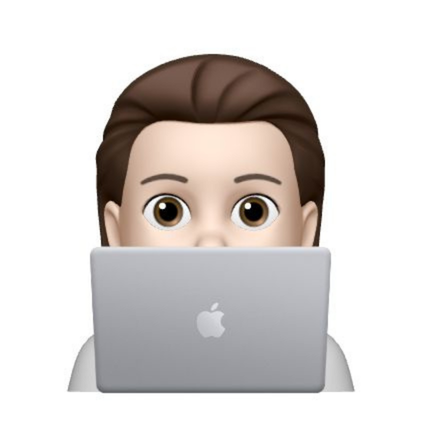
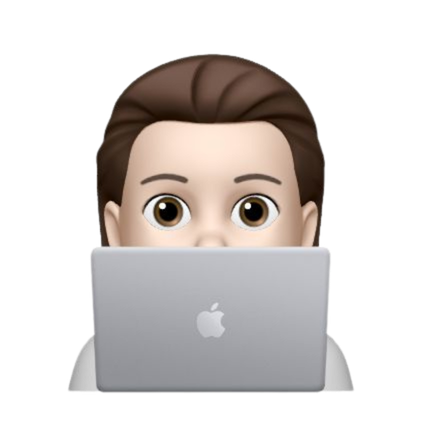
feat: refine project picker controls

diff --git a/src/components/projects/project-picker.module.css b/src/components/projects/project-picker.module.css
@@ -1,2 +1,2 @@
-.page { --canvas: #f7f7f6; --ink: #0a1b33; --muted: #60708a; --rule: #dfe3e8; --accent: #98b7ff; --focus: #0a1b33; min-height: 100vh; overflow: hidden; background: var(--canvas); color: var(--ink); font-family: Inter, Arial, sans-serif; }.topbar { display: flex; align-items: center; justify-content: space-between; width: min(1320px, calc(100% - 64px)); margin: 0 auto; padding: 30px 0; border-bottom: 1px solid var(--rule); }.brand { color: var(--ink); font-family: Outfit, Inter, sans-serif; font-size: 23px; font-weight: 500; letter-spacing: -.045em; text-decoration: none; }.topbar > span, .eyebrow { color: var(--muted); font-size: 10px; font-weight: 700; letter-spacing: .13em; }.content { display: grid; grid-template-columns: minmax(0, .74fr) minmax(420px, 1.26fr); grid-template-rows: 1fr auto; width: min(1320px, calc(100% - 64px)); min-height: calc(100vh - 85px); margin: 0 auto; }.copy { display: flex; flex-direction: column; justify-content: center; padding: 60px 20px 100px 0; }.copy h1 { margin: 19px 0 0; font-family: Outfit, Inter, sans-serif; font-size: clamp(52px, 5.9vw, 84px); font-weight: 500; letter-spacing: -.07em; line-height: .92; }.copy > p { max-width: 390px; margin: 28px 0 0; color: #43536c; font-size: 15px; line-height: 1.75; }.folderInput { position: absolute; width: 1px; height: 1px; overflow: hidden; clip: rect(0 0 0 0); }.actions { display: flex; align-items: center; flex-wrap: wrap; gap: 10px; margin-top: 25px; }.addProject { display: inline-flex; width: fit-content; }.selectProject { display: inline-flex; align-items: center; gap: 8px; min-height: 50px; border: 1px solid var(--ink); border-radius: 999px; background: var(--ink); color: #fff; cursor: pointer; font: 700 13px Inter, Arial, sans-serif; padding: 12px 17px; transition: transform .18s ease, background .18s ease; }.selectProject span { font-size: 17px; line-height: 1; }.selectProject:hover:not(:disabled) { background: #19345e; transform: translateY(-2px); }.selectProject:disabled { cursor: not-allowed; opacity: .45; }.orbit { display: flex; align-items: center; justify-content: center; min-width: 0; }.orbit :global(.dark) { color-scheme: light; }.footer { grid-column: 1 / -1; display: flex; align-items: center; justify-content: space-between; gap: 24px; padding: 19px 0 27px; border-top: 1px solid var(--rule); color: var(--muted); font-size: 12px; }.footer strong { color: var(--ink); }.footer p { max-width: 400px; margin: 0; text-align: right; line-height: 1.5; }.statusDot { display: inline-block; width: 7px; height: 7px; margin-right: 7px; border-radius: 50%; background: #4e8a63; } .brand:focus-visible,.addProject:focus-visible,.selectProject:focus-visible { outline: 3px solid var(--focus); outline-offset: 5px; }
-@media (max-width: 780px) { .page { overflow-y: auto; }.topbar, .content { width: min(100% - 36px, 560px); }.topbar { padding: 21px 0; }.topbar > span { display: none; }.content { display: block; min-height: 0; }.copy { padding: 58px 0 4px; }.copy h1 { font-size: clamp(48px, 13vw, 67px); }.copy > p:last-child { margin-top: 22px; }.orbit { min-height: 420px; }.footer { display: block; padding: 18px 0 28px; }.footer p { margin-top: 11px; text-align: left; } }
+.page { --canvas: #f7f7f6; --ink: #0a1b33; --muted: #60708a; --rule: #dfe3e8; --accent: #98b7ff; --focus: #0a1b33; min-height: 100vh; overflow: hidden; background: var(--canvas); color: var(--ink); font-family: Inter, Arial, sans-serif; }.topbar { display: flex; align-items: center; justify-content: space-between; width: min(1320px, calc(100% - 64px)); margin: 0 auto; padding: 30px 0; border-bottom: 1px solid var(--rule); }.brand { color: var(--ink); font-family: Outfit, Inter, sans-serif; font-size: 23px; font-weight: 500; letter-spacing: -.045em; text-decoration: none; }.topbar > span, .eyebrow { color: var(--muted); font-size: 10px; font-weight: 700; letter-spacing: .13em; }.content { display: grid; grid-template-columns: minmax(0, .9fr) minmax(0, 1.1fr); width: min(1320px, calc(100% - 64px)); min-height: calc(100vh - 85px); margin: 0 auto; }.copy { display: flex; flex-direction: column; justify-content: center; padding: 60px 20px 100px 0; }.copy h1 { margin: 19px 0 0; font-family: Outfit, Inter, sans-serif; font-size: clamp(52px, 5.3vw, 72px); font-weight: 500; letter-spacing: -.07em; line-height: .92; white-space: nowrap; }.copy > p { max-width: 390px; margin: 28px 0 0; color: #43536c; font-size: 15px; line-height: 1.75; }.folderInput { position: absolute; width: 1px; height: 1px; overflow: hidden; clip: rect(0 0 0 0); }.actions { display: flex; align-items: center; flex-wrap: wrap; gap: 10px; margin-top: 25px; }.addProject { display: inline-flex; width: fit-content; }.selectProject { display: inline-flex; align-items: center; gap: 8px; min-height: 50px; border: 1px solid var(--ink); border-radius: 999px; background: var(--ink); color: #fff; cursor: pointer; font: 700 13px Inter, Arial, sans-serif; padding: 12px 17px; transition: transform .18s ease, background .18s ease; }.selectProject span { font-size: 17px; line-height: 1; }.selectProject:hover:not(:disabled) { background: #19345e; transform: translateY(-2px); }.selectProject:disabled { cursor: not-allowed; opacity: .45; }.orbit { display: flex; align-items: center; justify-content: center; min-width: 0; }.orbit :global(.dark) { color-scheme: light; }.screenReaderNotice { height: 1px; margin: -1px; overflow: hidden; position: absolute; width: 1px; clip: rect(0 0 0 0); white-space: nowrap; } .brand:focus-visible,.addProject:focus-visible,.selectProject:focus-visible { outline: 3px solid var(--focus); outline-offset: 5px; }
+@media (max-width: 780px) { .page { overflow-y: auto; }.topbar, .content { width: min(100% - 36px, 560px); }.topbar { padding: 21px 0; }.topbar > span { display: none; }.content { display: block; min-height: 0; }.copy { padding: 58px 0 4px; }.copy h1 { font-size: clamp(48px, 13vw, 67px); }.copy > p:last-child { margin-top: 22px; }.orbit { min-height: 420px; } }

diff --git a/src/components/projects/project-picker.tsx b/src/components/projects/project-picker.tsx
@@ -3,8 +3,10 @@
 import Link from 'next/link'
 import { useRouter } from 'next/navigation'
 import { useEffect, useRef, useState, type ChangeEvent } from 'react'
+import { FiFolder, FiGithub, FiLink } from 'react-icons/fi'
 
 import { RadialCarousel, type GalleryItem } from '@/components/ui/radial-carousel'
+import ButtonGroup1 from '@/components/ui/button-group-1'
 import { ShareSheet } from '@/components/ui/share-sheet'
 
 import styles from './project-picker.module.css'
@@ -27,18 +29,18 @@ const PROJECTS: readonly Project[] = [
 ]
 
 const ADD_SOURCES = [
-  { id: 'folder', name: '폴더에서 추가', avatar: cardArtwork('Folder', 'Choose a local folder', '#9CB8FA') },
-  { id: 'github', name: 'GitHub 연결', avatar: cardArtwork('GitHub', 'Coming soon', '#C9B8EF') },
-  { id: 'preview', name: 'Preview URL 추가', avatar: cardArtwork('Preview', 'Coming soon', '#E8C89A') },
+  { id: 'folder', name: '폴더에서 추가', icon: <FiFolder aria-hidden="true" /> },
+  { id: 'github', name: 'GitHub 연결', icon: <FiGithub aria-hidden="true" /> },
+  { id: 'preview', name: 'Preview URL 추가', icon: <FiLink aria-hidden="true" /> },
 ]
 
 export function ProjectPicker() {
   const router = useRouter()
   const folderInput = useRef<HTMLInputElement>(null)
   const [projects, setProjects] = useState<readonly Project[]>(PROJECTS)
-  const [selectedProjectId, setSelectedProjectId] = useState<string | number>(PROJECTS[0].id)
+  const [selectedProjectId, setSelectedProjectId] = useState<string | number | null>(null)
   const [notice, setNotice] = useState('원형으로 펼쳐진 프로젝트를 클릭해 Replay Court를 시작하세요.')
-  const selectedProject = projects.find((project) => project.id === selectedProjectId) ?? projects[0]
+  const selectedProject = projects.find((project) => project.id === selectedProjectId)
 
   useEffect(() => {
     folderInput.current?.setAttribute('webkitdirectory', '')
@@ -102,19 +104,23 @@ export function ProjectPicker() {
         <p>프로젝트를 고른 뒤, 아래 선택 버튼으로 페르소나 테스트를 시작합니다.</p>
         <input className={styles.folderInput} multiple onChange={addProject} ref={folderInput} type="file" />
         <div className={styles.actions}>
-          <div className={styles.addProject}><ShareSheet onShareComplete={chooseAddSource} triggerLabel="프로젝트 추가하기" users={ADD_SOURCES} /></div>
-          <button className={styles.selectProject} disabled={!selectedProject?.ready} onClick={continueWithProject} type="button">
-            {selectedProject?.ready ? `${selectedProject.title} 프로젝트 선택` : 'Preview 연결 대기'} <span aria-hidden="true">→</span>
-          </button>
+          <div className={styles.addProject}>
+            <ShareSheet
+              onShareComplete={chooseAddSource}
+              triggerLabel="프로젝트 추가하기"
+              users={ADD_SOURCES}
+              renderTrigger={({ label, onClick }) => <ButtonGroup1 actionLabel={label} countLabel="3가지 방식" onClick={onClick} />}
+            />
+          </div>
+          {selectedProject && <button className={styles.selectProject} disabled={!selectedProject.ready} onClick={continueWithProject} type="button">
+            {selectedProject.ready ? `${selectedProject.title} 프로젝트 선택` : 'Preview 연결 대기'} <span aria-hidden="true">→</span>
+          </button>}
         </div>
       </div>
       <div className={styles.orbit}>
-        <RadialCarousel centerSize={380} items={[...projects]} onItemSelect={selectProject} radius={250} thumbnailSize={104} />
-      </div>
-      <div className={styles.footer}>
-        <div><span className={styles.statusDot} aria-hidden="true" /> <strong>FocusList</strong><span> · 1개 프로젝트 검증 준비 완료</span></div>
-        <p aria-live="polite">{notice}</p>
+        <RadialCarousel centerSize={380} items={[...projects]} onItemSelect={selectProject} radius={150} thumbnailSize={170} />
       </div>
     </section>
+    <p className={styles.screenReaderNotice} aria-live="polite">{notice}</p>
   </main>
 }

diff --git a/src/components/ui/button-group.tsx b/src/components/ui/button-group.tsx
@@ -1,0 +1,83 @@
+import { cva, type VariantProps } from "class-variance-authority"
+import { Slot } from "radix-ui"
+
+import { cn } from "@/lib/utils"
+import { Separator } from "@/components/ui/separator"
+
+const buttonGroupVariants = cva(
+  "group/button-group flex w-fit items-stretch *:focus-visible:relative *:focus-visible:z-10 has-[>[data-slot=button-group]]:gap-2 has-[select[aria-hidden=true]:last-child]:[&>[data-slot=select-trigger]:last-of-type]:rounded-r-lg [&>[data-slot=select-trigger]:not([class*='w-'])]:w-fit [&>input]:flex-1",
+  {
+    variants: {
+      orientation: {
+        horizontal:
+          "[&>*:not(:first-child)]:rounded-l-none [&>*:not(:first-child)]:border-l-0 [&>*:not(:last-child)]:rounded-r-none [&>[data-slot]:not(:has(~[data-slot]))]:rounded-r-lg!",
+        vertical:
+          "flex-col [&>*:not(:first-child)]:rounded-t-none [&>*:not(:first-child)]:border-t-0 [&>*:not(:last-child)]:rounded-b-none [&>[data-slot]:not(:has(~[data-slot]))]:rounded-b-lg!",
+      },
+    },
+    defaultVariants: {
+      orientation: "horizontal",
+    },
+  }
+)
+
+function ButtonGroup({
+  className,
+  orientation,
+  ...props
+}: React.ComponentProps<"div"> & VariantProps<typeof buttonGroupVariants>) {
+  return (
+    <div
+      role="group"
+      data-slot="button-group"
+      data-orientation={orientation}
+      className={cn(buttonGroupVariants({ orientation }), className)}
+      {...props}
+    />
+  )
+}
+
+function ButtonGroupText({
+  className,
+  asChild = false,
+  ...props
+}: React.ComponentProps<"div"> & {
+  asChild?: boolean
+}) {
+  const Comp = asChild ? Slot.Root : "div"
+
+  return (
+    <Comp
+      className={cn(
+        "flex items-center gap-2 rounded-lg border bg-muted px-2.5 text-sm font-medium [&_svg]:pointer-events-none [&_svg:not([class*='size-'])]:size-4",
+        className
+      )}
+      {...props}
+    />
+  )
+}
+
+function ButtonGroupSeparator({
+  className,
+  orientation = "vertical",
+  ...props
+}: React.ComponentProps<typeof Separator>) {
+  return (
+    <Separator
+      data-slot="button-group-separator"
+      orientation={orientation}
+      className={cn(
+        "relative self-stretch bg-input data-horizontal:mx-px data-horizontal:w-auto data-vertical:my-px data-vertical:h-auto",
+        className
+      )}
+      {...props}
+    />
+  )
+}
+
+export {
+  ButtonGroup,
+  ButtonGroupSeparator,
+  ButtonGroupText,
+  buttonGroupVariants,
+}

diff --git a/src/components/ui/button-group-1.tsx b/src/components/ui/button-group-1.tsx
@@ -1,0 +1,31 @@
+"use client"
+
+import { FiPlus } from 'react-icons/fi'
+import { Button } from '@/components/ui/button'
+
+type ButtonGroup1Props = {
+  readonly actionLabel: string
+  readonly countLabel: string
+  readonly onClick: () => void
+}
+
+const ButtonGroup1 = ({ actionLabel, countLabel, onClick }: ButtonGroup1Props) => {
+  return (
+    <div className='inline-flex w-fit -space-x-px rounded-md shadow-xs rtl:space-x-reverse'>
+      <Button
+        type='button'
+        onClick={onClick}
+        variant='outline'
+        className='h-12 gap-2 rounded-none rounded-l-full border-[#0a1b33] bg-[#0a1b33] px-4 text-white shadow-none hover:bg-[#19345e] hover:text-white focus-visible:z-10'
+      >
+        <FiPlus className='size-4' />
+        {actionLabel}
+      </Button>
+      <span className='flex h-12 items-center rounded-r-full border border-[#0a1b33] bg-white px-3 text-xs font-semibold text-[#526071]'>
+        {countLabel}
+      </span>
+    </div>
+  )
+}
+
+export default ButtonGroup1

diff --git a/src/components/ui/separator.tsx b/src/components/ui/separator.tsx
@@ -1,0 +1,28 @@
+"use client"
+
+import * as React from "react"
+import { Separator as SeparatorPrimitive } from "radix-ui"
+
+import { cn } from "@/lib/utils"
+
+function Separator({
+  className,
+  orientation = "horizontal",
+  decorative = true,
+  ...props
+}: React.ComponentProps<typeof SeparatorPrimitive.Root>) {
+  return (
+    <SeparatorPrimitive.Root
+      data-slot="separator"
+      decorative={decorative}
+      orientation={orientation}
+      className={cn(
+        "shrink-0 bg-border data-horizontal:h-px data-horizontal:w-full data-vertical:w-px data-vertical:self-stretch",
+        className
+      )}
+      {...props}
+    />
+  )
+}
+
+export { Separator }
